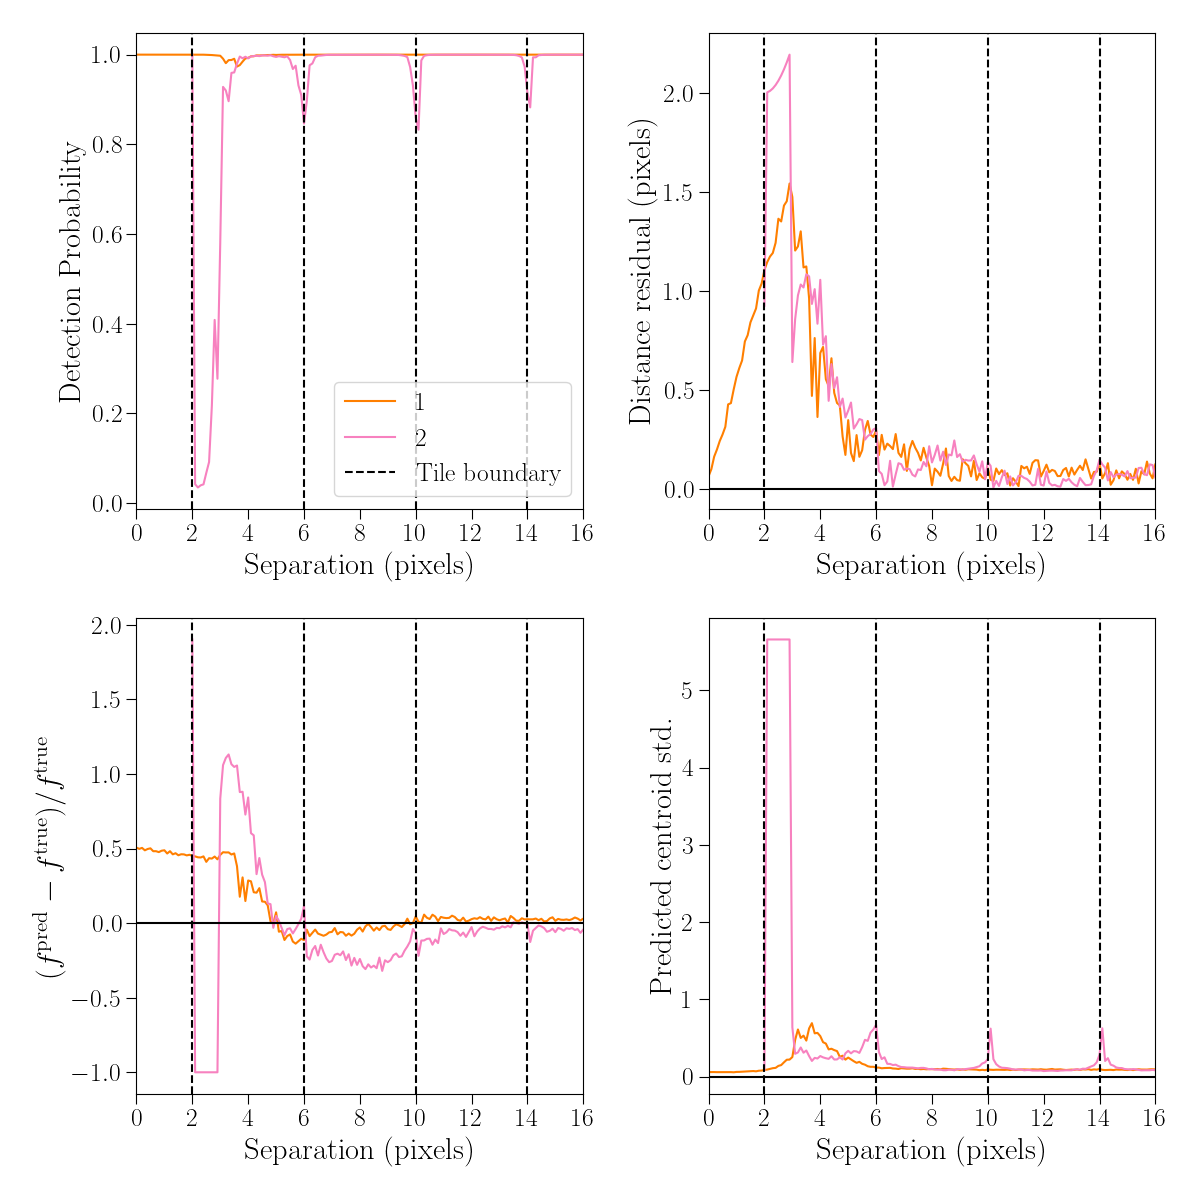
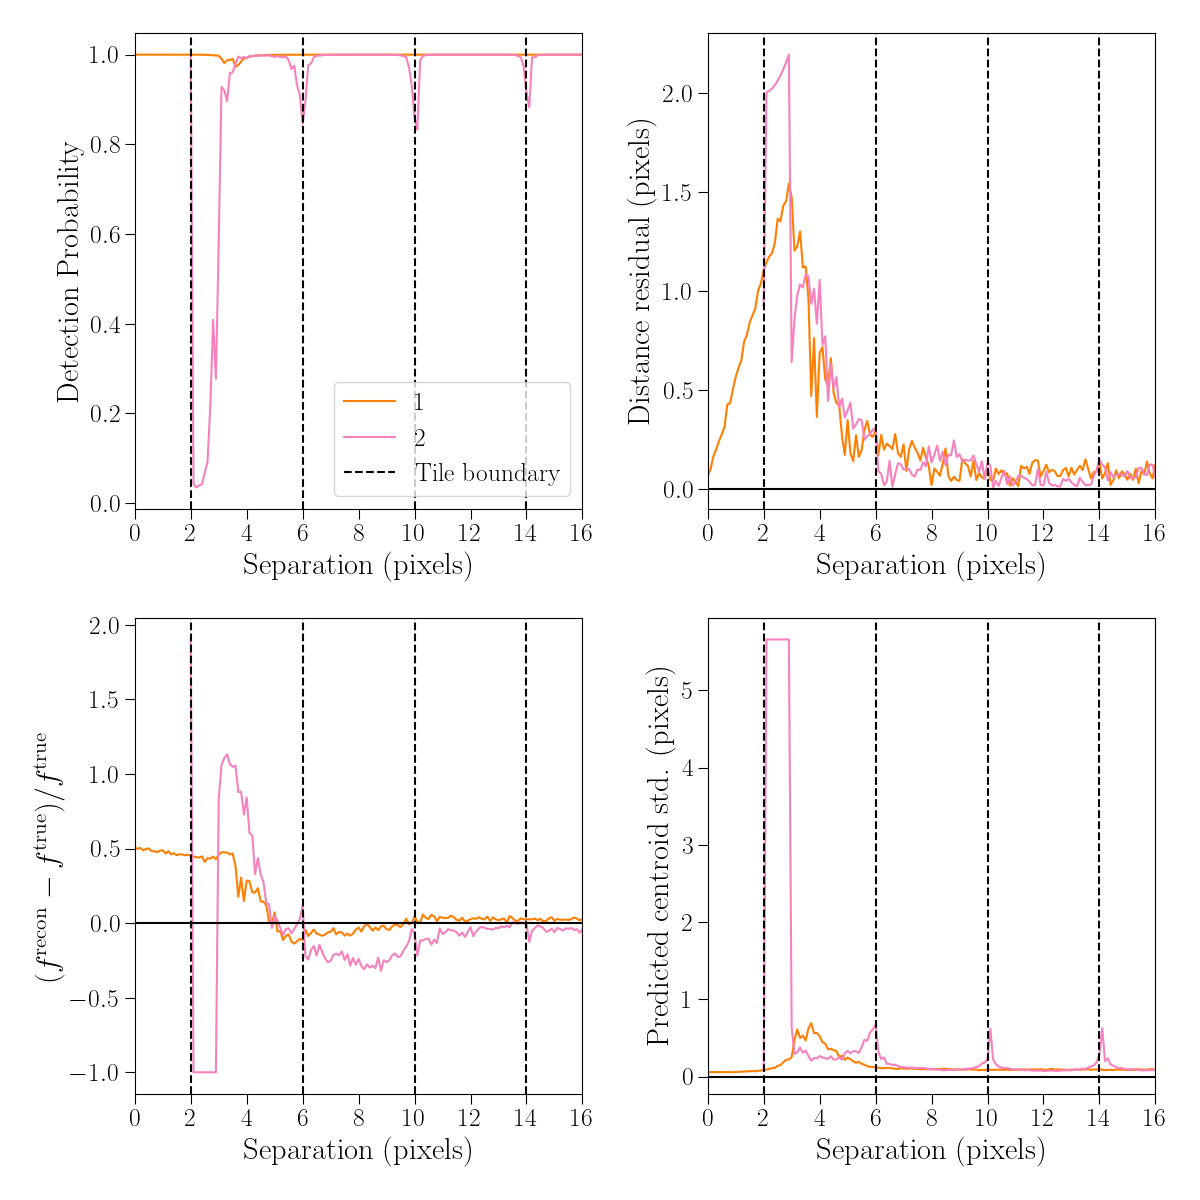
labels update

diff --git a/case_studies/galsim_galaxies/get_figures.py b/case_studies/galsim_galaxies/get_figures.py
@@ -114,7 +114,7 @@ def _make_pr_figure(
 
     ax2.legend(loc="lower left")
     ax2.set_xlabel(xlabel)
-    ax2.set_ylabel(rf"\rm {metric_type} metric")
+    ax2.set_ylabel(rf"\rm {metric_type} Metric")
     ax2.set_yticks(yticks)
 
     if xlims is not None:
@@ -952,7 +952,7 @@ class ToySeparationFigureMeasurements(ToySeparationFigure):
         axs[3].set_xticks(xticks)
         axs[3].set_xlim(0, 16)
         axs[3].set_xlabel(r"\rm Separation (pixels)")
-        axs[3].set_ylabel(r"\rm Predicted centroid std.")
+        axs[3].set_ylabel(r"\rm Predicted centroid std. (pixels)")
 
         # flux normalized residuals
         tflux1 = data["truth"]["flux"][:, 0]
@@ -972,7 +972,7 @@ class ToySeparationFigureMeasurements(ToySeparationFigure):
         axs[2].set_xticks(xticks)
         axs[2].set_xlim(0, 16)
         axs[2].set_xlabel(r"\rm Separation (pixels)")
-        axs[2].set_ylabel(r"$ (f^{\rm pred} - f^{\rm true})/ f^{\rm true}$")
+        axs[2].set_ylabel(r"$ (f^{\rm recon} - f^{\rm true})/ f^{\rm true}$")
 
         return fig
 
